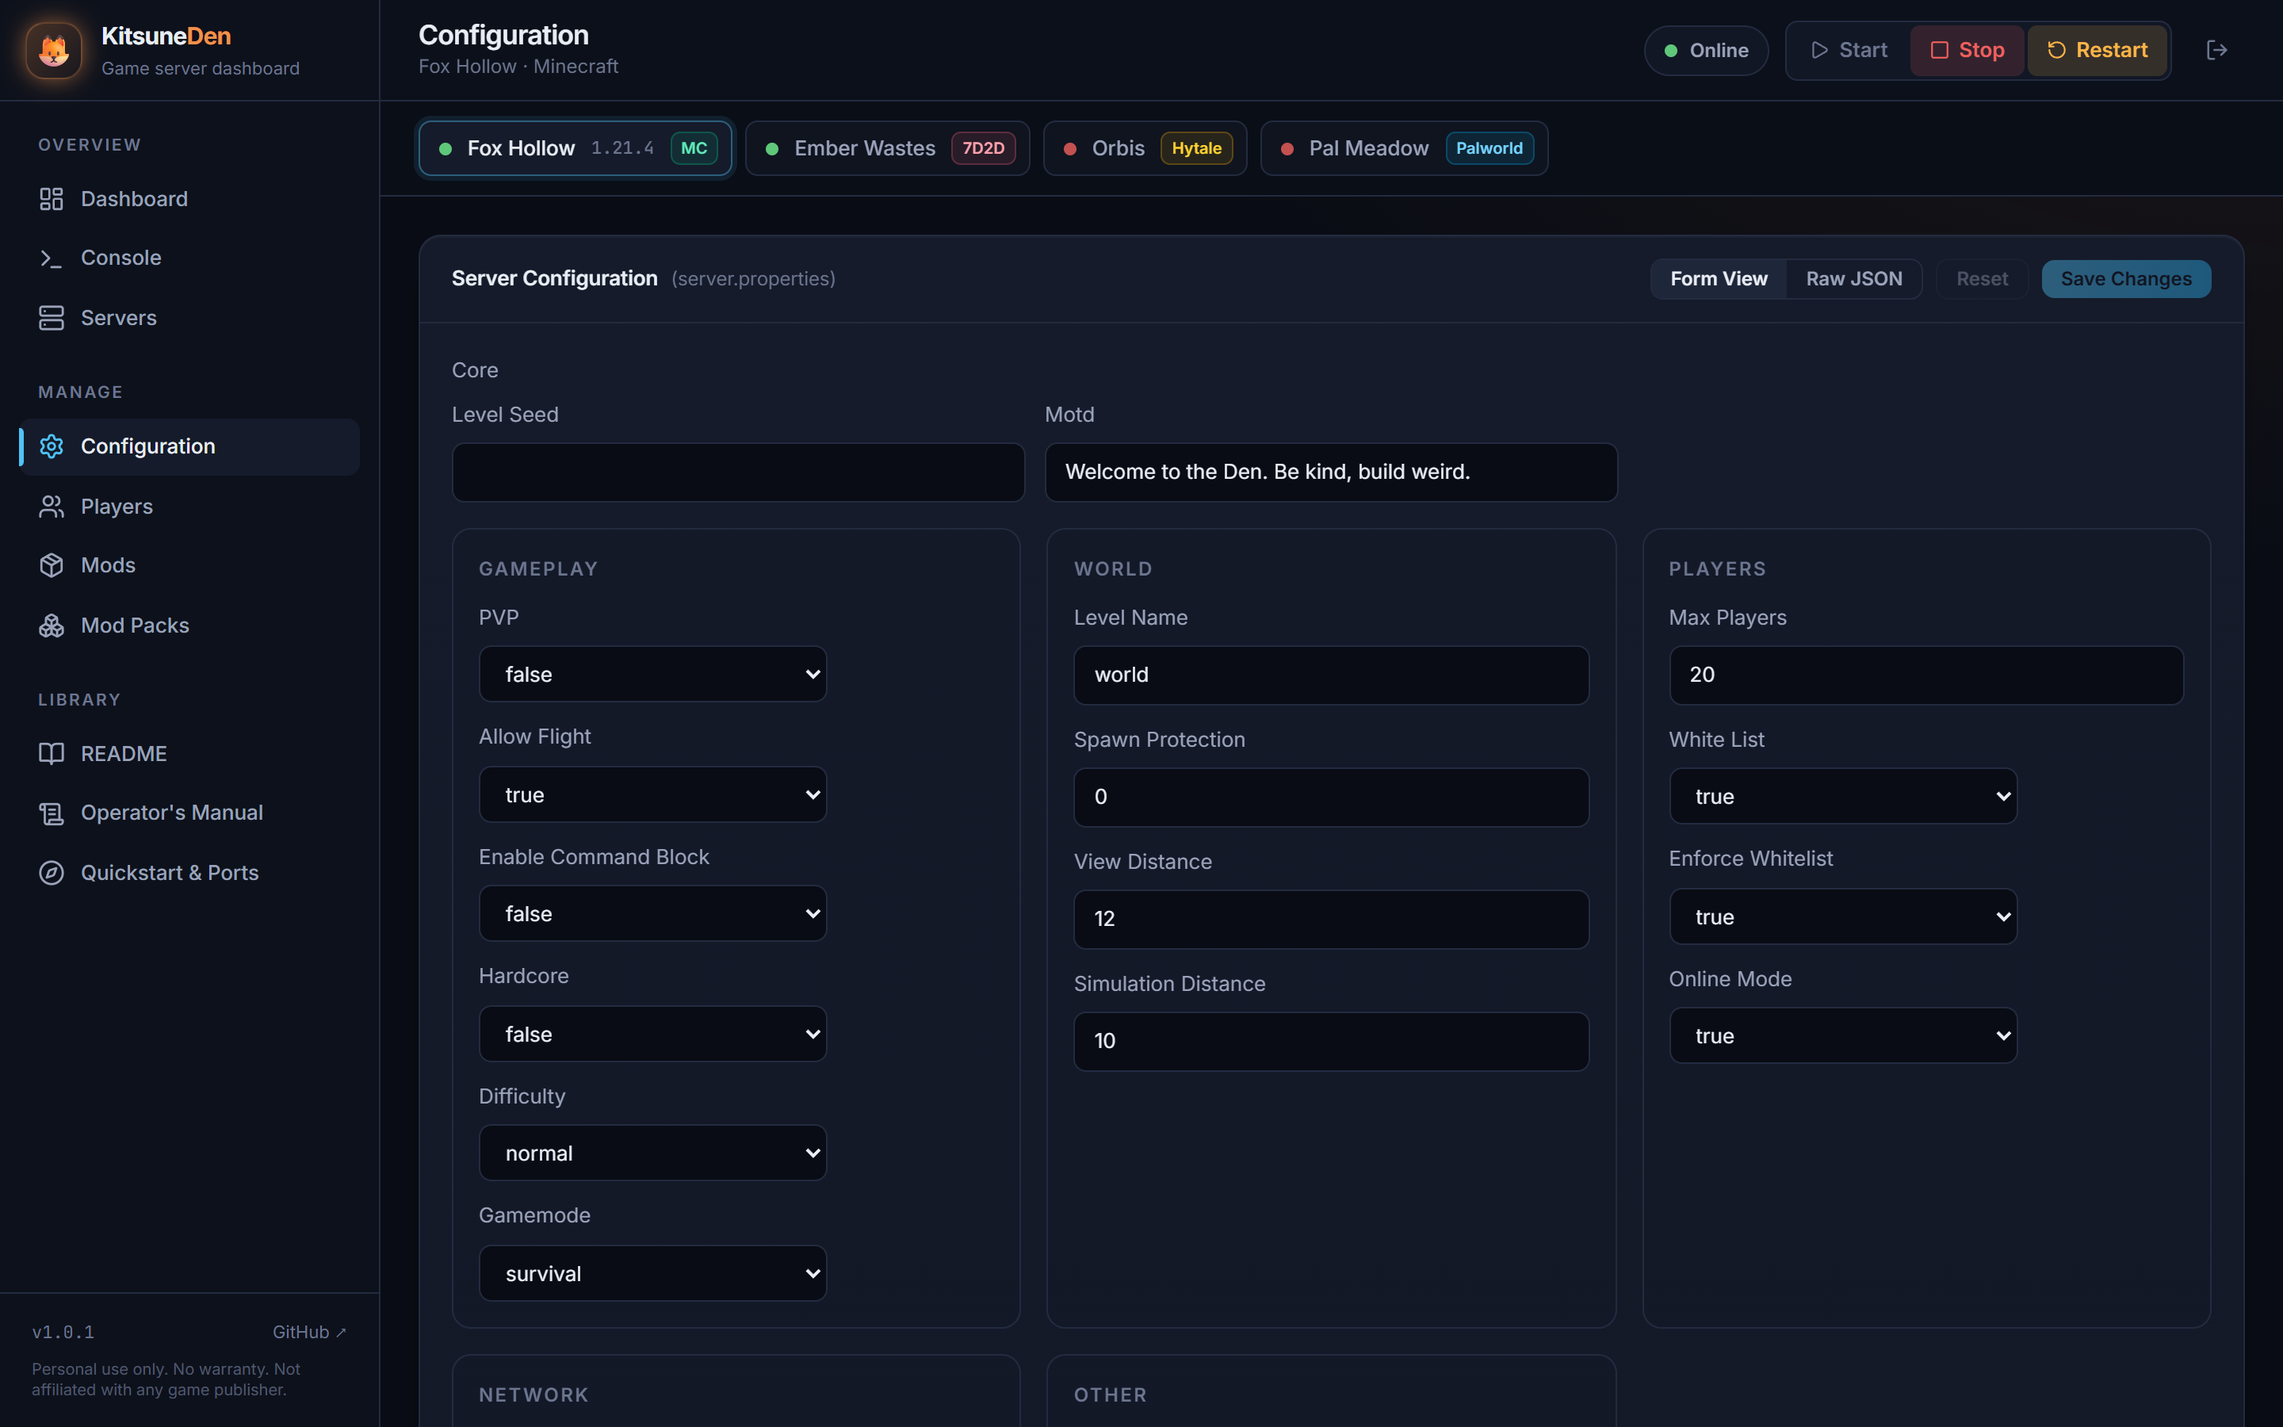
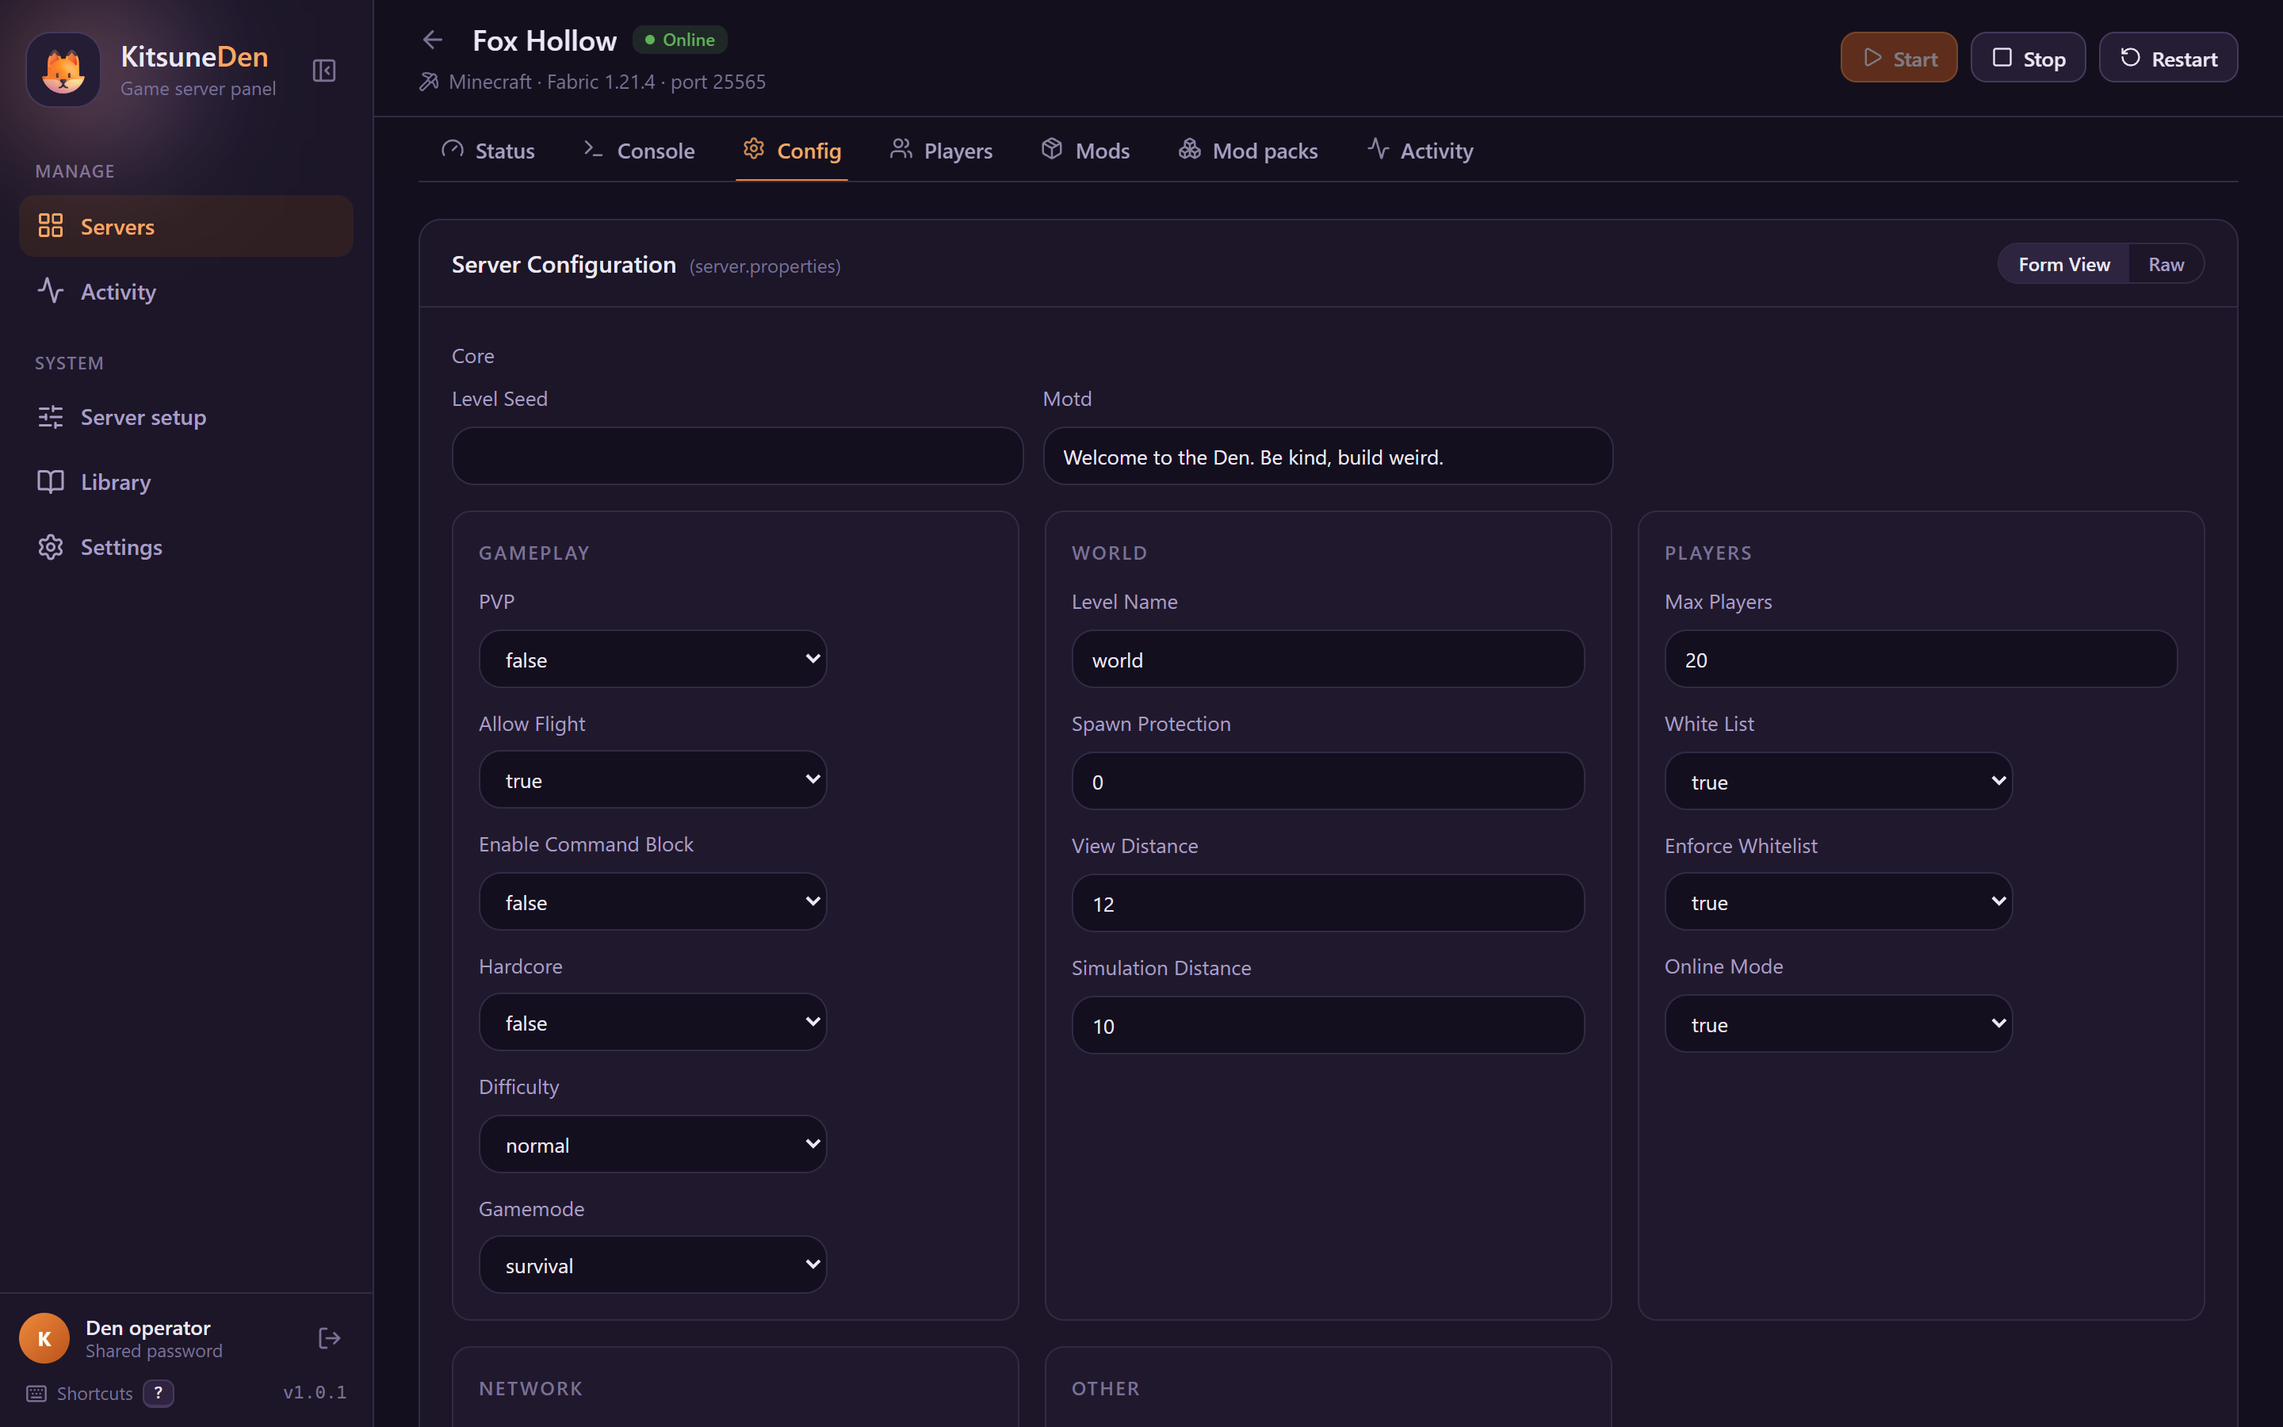
docs: describe the new panel and retake screenshots
- README: server grid, per-server pages, staged config, activity log,
  themes and shortcuts; a screenshot table covering the server page,
  config, players, activity and the light theme
- Manual: the (panel) route layout, how ServerContext reads the
  server from the URL, theme tokens, a rewritten "Getting Around"
  section (grid, tabs, staged saving, activity, settings), the
  /api/activity route and glossary entries
- Screenshots captured from demo data (example names, RFC 5737/1918
  addresses)

diff --git a/src/den-operators-manual/04-operations.md b/src/den-operators-manual/04-operations.md
@@ -82,7 +82,7 @@ Open [http://localhost:3001](http://localhost:3001). You should land on the logi
 ## 2. Passing the Gate (Login)
 
 - Everyone uses the same password: `KITSUNEDEN_PASSWORD`.
-- A session lasts **7 days**. **Log out** from the top bar.
+- A session lasts **7 days**. **Log out** with the button next to *Den operator* at the bottom of the sidebar.
 - **Changing the password** means editing `.env`, restarting the dashboard, and telling everyone. Existing sessions stay valid until they expire.
 - **Ending every session at once** (say, after a password leak): change `KITSUNEDEN_SESSION_SECRET` and restart. Every cookie signed with the old secret stops working.
 
@@ -112,7 +112,7 @@ Some fields aren't in the form yet. Edit `servers.json` by hand for:
 
 ## 4. Starting and Stopping Game Servers
 
-Use the **Start**, **Stop**, and **Restart** buttons in the top bar (a compact set also floats on the Dashboard page). They act on whichever server the switcher has selected.
+Each server card on the home page has start/stop and restart buttons, and every server's own page has **Start**, **Stop**, and **Restart** in its header. Stop and restart ask for confirmation, since they disconnect players. On a server's page the keys `s`, `x` and `r` do the same (with the same confirmation).
 
 What each button actually does depends on the spirit (see Chapter 2, section 9). In short:
 
@@ -141,13 +141,25 @@ Launch scripts use relative paths, so always `cd` into the server's folder first
 
 ---
 
-## 5. Switching Between Servers
+## 5. Getting Around
 
-The **server switcher** sits above the page content and lists every server in `servers.json`, each with a live status indicator. The list refreshes every 5 seconds.
+**Servers** (the home page) shows every server in `servers.json` as a card: status, memory, players online, uptime, and quick controls. Toggle between grid and list at the top right. Cards refresh every few seconds while the tab is visible.
 
-Choosing a server changes the target of every page: console, stats, config, players, mods, and so on. Pages that don't apply to that server's game disappear from the sidebar.
+Click a card to open that server. Its page has tabs: **Status, Console, Config, Players**, then whichever of **Worlds, Backups, Mods, Mod packs, Airdrops, Update** the game supports, and **Activity**. Each tab has its own URL, so you can bookmark `/instances/<id>/console`. `[` and `]` step between tabs; `h` goes back to all servers; `?` lists every shortcut.
 
-**Switching never stops anything.** Servers on different ports can all run at once; the switcher only changes which one you're looking at.
+**Opening a server never stops anything.** Servers on different ports can all run at once; you're only choosing which one to look at.
+
+### Saving config
+
+Config edits are staged. Each changed field gets a small orange dot, the header counts the unsaved changes, and a bar at the bottom offers **Save changes** or **Discard**. After a save it tells you whether the server needs a restart and offers **Restart now** if it's running. Leaving the tab, the page, or the browser with unsaved edits asks first.
+
+### Activity
+
+The **Activity** page (and each server's Activity tab) lists what happened: starts, stops, restarts, config saves, roster changes, backups, mod changes, sign-ins. A server that goes down without the dashboard asking is logged as a crash. The log lives in `data\activity.jsonl` and keeps the most recent ~1500 events.
+
+### Settings
+
+**Settings** picks dark, light or system theme and turns on the colour-blind status palette. Both are saved in the browser, so each person (and each device) chooses their own.
 
 ---
 
@@ -290,7 +302,8 @@ Whether the mod picks up changes without a restart depends on the mod.
 ### Morning
 
 - [ ] Open the Den ([localhost:3001](http://localhost:3001)) and confirm it loads
-- [ ] Glance at the switcher. Is everyone who should be awake, awake?
+- [ ] Glance at the server grid. Is everyone who should be awake, awake?
+- [ ] Skim **Activity** for anything marked as stopped unexpectedly.
 - [ ] Skim the console of anything that restarted overnight
 
 ### Occasional

diff --git a/src/den-operators-manual/02-architecture.md b/src/den-operators-manual/02-architecture.md
@@ -32,15 +32,20 @@ KitsuneDen\
   src\
     proxy.ts                 The Gate: session check on every request
     app\
-      page.tsx               The single-page shell (sidebar, top bar, switcher, pages)
+      (panel)\               Every signed-in page, wrapped in the shell (sidebar, toasts, shortcuts)
+        page.tsx             Server grid (home)
+        instances\[id]\      One server, tabs as URL segments (/instances/<id>/<tab>)
+        activity\ manage\ library\ settings\
       login\page.tsx         Login + first-boot setup banner
-      globals.css            Den theme tokens (Tailwind @theme)
+      globals.css            Theme tokens (dark / light / colour-blind) + shared component classes
       api\                   One folder per route (see Appendix D)
-    components\              Pages and panels: Dashboard, Console, Servers, Config,
-                             Players, Mods, Docs, plus per-game folders
+    components\              Tab bodies: Dashboard (status), Console, Config, Players,
+                             Mods, Docs, ActivityFeed, plus per-game folders
                              (minecraft\, hytale\, palworld\, enshrouded\)
+      instances\            Server cards, controls, card art, live stats hook
+      shell\                Page frame, toasts, shortcuts overlay
     contexts\
-      ServerContext.tsx      Selected server + server list, polled every 5s
+      ServerContext.tsx      Server list (polled every 5s) + the server in the URL
     lib\
       adapters\
         types.ts             ServerDefinition, ServerAdapter, capabilities
@@ -81,7 +86,9 @@ Two build details worth knowing:
 - `next.config.ts` sets `typescript.ignoreBuildErrors: true`. **A green `npm run build` does not mean the types are clean.** Run `npx tsc --noEmit` when you want the honest answer.
 - `better-sqlite3` is listed in `serverExternalPackages`, so Next leaves its native binding alone.
 
-The UI is a single page. The sidebar picks which panel shows; the server switcher picks which server every panel talks to.
+The UI follows PackRelay's panel. The home page is a grid of server cards. Each server has its own page at `/instances/<id>`, and its sections are tabs that live in the URL (`/instances/<id>/console`, `/config`, ...), so they can be bookmarked and shared. `ServerContext` reads the server id from the URL, which is how the older panel components know which server to talk to.
+
+Look and feel come from CSS variables in `globals.css`: plum surfaces from PackRelay, with the Den's lantern orange as the accent. The `den-*` Tailwind colours point at those variables, so everything follows the dark, light and colour-blind themes. The theme is applied by a tiny script in `<head>` before first paint.
 
 ---
 
@@ -106,7 +113,7 @@ Adapters may add game-specific methods (backups, updates, worlds, admin files). 
 
 ### Capabilities
 
-Each adapter declares what it can do. The sidebar hides pages a server can't use.
+Each adapter declares what it can do. A server's page hides the tabs it can't use.
 
 | Capability | MC | Hytale | 7D2D | Palworld | Enshrouded |
 |---|---|---|---|---|---|

diff --git a/README.md b/README.md
@@ -18,20 +18,27 @@ KitsuneDen treats your servers like living things. Each one gets its own persona
 
 ## What it does
 
-- **One dashboard, every server.** Switch between servers from the top bar, with live status on each one.
+- **Every server at a glance.** A grid of server cards with live status, memory, players online and uptime, plus quick start/stop/restart.
 - **Add servers from the UI.** Pick a game, browse to the install folder, fill in the ports. No hand-editing JSON unless you want to.
-- **Start, stop, restart.** Right there in the top bar.
+- **A page per server.** Status, console, config, players, mods, backups and more as tabs, each with its own URL.
 - **Live console** with command input and history.
 - **Players.** Whitelist, op, ban, kick, plus who's online right now (via RCON for Minecraft and Palworld, telnet for 7D2D).
 - **Mods and mod packs.** Upload, organize, and flip whole sets on.
-- **Config editor** with friendly widgets where they help (the 7D2D day/night slider is the favorite).
+- **Config editor** with friendly widgets where they help (the 7D2D day/night slider is the favorite). Edits are staged: changed fields are marked until you save, and it offers a restart when one's needed.
 - **Worlds, backups, and updates** for the games that support them: SteamCMD for Palworld and Enshrouded, the launcher for Hytale.
 - **Remote Minecraft.** The dashboard and the server don't have to share a machine. See [Remote Minecraft servers](#remote-minecraft-servers).
+- **Activity log.** Starts, stops, crashes, config saves and roster changes, for one server or the whole Den.
+- **Dark, light, or match your OS**, plus a colour-blind friendly status palette.
+- **Keyboard shortcuts.** `s` / `x` / `r` to start, stop and restart, `[` `]` to flip tabs, `?` for the full list.
 - **A password at the door.** One shared password keeps randos off your dashboard.
 
-| Configuration | Players |
+| A server's page | Staged config editing |
 |---|---|
-| ![Configuration](docs/configuration.png) | ![Players](docs/players.png) |
+| ![Server page](docs/instance.png) | ![Configuration](docs/configuration.png) |
+| **Players** | **Activity** |
+| ![Players](docs/players.png) | ![Activity](docs/activity.png) |
+| **Light theme** | |
+| ![Light theme](docs/dashboard-light.png) | |
 
 <sub>Screenshots use demo data. Those aren't real players or real IPs.</sub>
 
@@ -289,6 +296,8 @@ The [Operator's Manual](src/den-operators-manual/07-appendices.md) has more on r
 KitsuneDen has a philosophy: your servers aren't cold infrastructure, they're creatures worth tending. Dashboards are companions. Logs are journals. Ports are doorways.
 
 The [Operator's Manual](src/den-operators-manual/00-preface.md) covers the Den's architecture, its spirits (one per game), day-to-day operations, and what to do when things break. It's also readable inside the dashboard, under **Library**.
+
+The panel's look and layout borrow from [PackRelay](https://pack-relay.com), in the fox's colours.
 
 ---
 

diff --git a/src/den-operators-manual/01-spirit-hall.md b/src/den-operators-manual/01-spirit-hall.md
@@ -30,16 +30,19 @@ Each adapter knows how its game likes to be spoken to: a child process's stdin f
 
 ### What she can do
 
-- **Server switcher**: every server in `servers.json`, with a live status indicator, refreshed every 5 seconds
+- **Server grid**: every server in `servers.json` as a card with live status, memory, players and uptime, refreshed every few seconds
+- **A page per server**: `/instances/<id>`, with tabs for status, console, config, players and whatever else that game supports
 - **Add, edit, and remove servers from the UI**: with a native folder picker for the install directory
 - **Live console**: streamed server output, plus command input for games that accept commands
-- **Lifecycle controls**: start, stop, and restart from the top bar
+- **Lifecycle controls**: start, stop, and restart from each card and from the server's page (stop and restart ask first)
 - **Players**: rosters, online status, and the admin actions each game supports
-- **Config editor**: `server.properties`, `serverconfig.xml`, `config.json`, `PalWorldSettings.ini`, or `enshrouded_server.json`, with friendly widgets where they help (like the 7D2D day/night slider)
+- **Config editor** with staged saving (changes are marked until you save, then it offers a restart): `server.properties`, `serverconfig.xml`, `config.json`, `PalWorldSettings.ini`, or `enshrouded_server.json`, with friendly widgets where they help (like the 7D2D day/night slider)
 - **Mods and mod packs**: uploads, a mod library, and swappable packs for Minecraft
 - **Backups, updates, and airdrops**: for the games that support them
 - **Connection info**: LAN and public IP with the game port, ready to share
-- **Docs**: this manual, readable in-app
+- **Activity log**: starts, stops, crashes, config saves and roster changes, per server and Den-wide
+- **Themes and shortcuts**: dark, light or system theme, a colour-blind palette, and single-key shortcuts (press `?`)
+- **Docs**: this manual, readable in-app under Library
 
 ---
 

diff --git a/src/den-operators-manual/07-appendices.md b/src/den-operators-manual/07-appendices.md
@@ -39,7 +39,8 @@ This chapter is for skimming. Keep it open in a tab and reach for whatever you n
 | **Stub directory** | The local `dir` a remote Minecraft entry points at; it isn't the real server folder |
 | **Mod Library** | `mods-library\`, the reservoir of Minecraft mods that packs draw from |
 | **Mod Pack** | A named set of library mods that can be activated together |
-| **Server Switcher** | The bar that chooses which server every page talks to |
+| **Server grid** | The home page: one card per server, with live status and quick controls |
+| **Activity log** | `data\activity.jsonl`, the record of starts, stops, crashes, saves and roster changes |
 | **SSE** | Server-Sent Events, the stream that carries console output to the browser |
 | **RCON** | Remote Console, used by Minecraft and Palworld |
 | **Argfile** | A text file of JVM arguments (`@file`), used by NeoForge's launch style |
@@ -122,6 +123,7 @@ Every route except `/api/auth/*` needs a valid session. Server-aware routes take
 | `/api/airdrops/history` | GET | Recent drops (`?limit=`, default 50) |
 | `/api/browse-folder` | GET | Opens a folder picker on the dashboard host |
 | `/api/docs` | GET | `?file=` README or a manual chapter |
+| `/api/activity` | GET | Recent events, newest first (`?server=`, `?kind=server,crash,config,players,backup,mods,setup,auth`, `?limit=` up to 500) |
 
 ---
 

diff --git a/src/den-operators-manual/05-troubleshooting.md b/src/den-operators-manual/05-troubleshooting.md
@@ -353,7 +353,7 @@ When something is broken and you're not sure what, this sequence clears most min
    ```
 4. **Send zombies home**: `taskkill /PID <PID> /F` for each leftover
 5. **Restart the dashboard**: `npm run dev`, or `npm run start` after a build
-6. **Restart the game server** from the top bar
+6. **Restart the game server** from its card or its page header
 7. **Watch the console for 30 seconds** and confirm a clean start
 8. **Breathe.** The Den is patient with those who tend it calmly.
 
